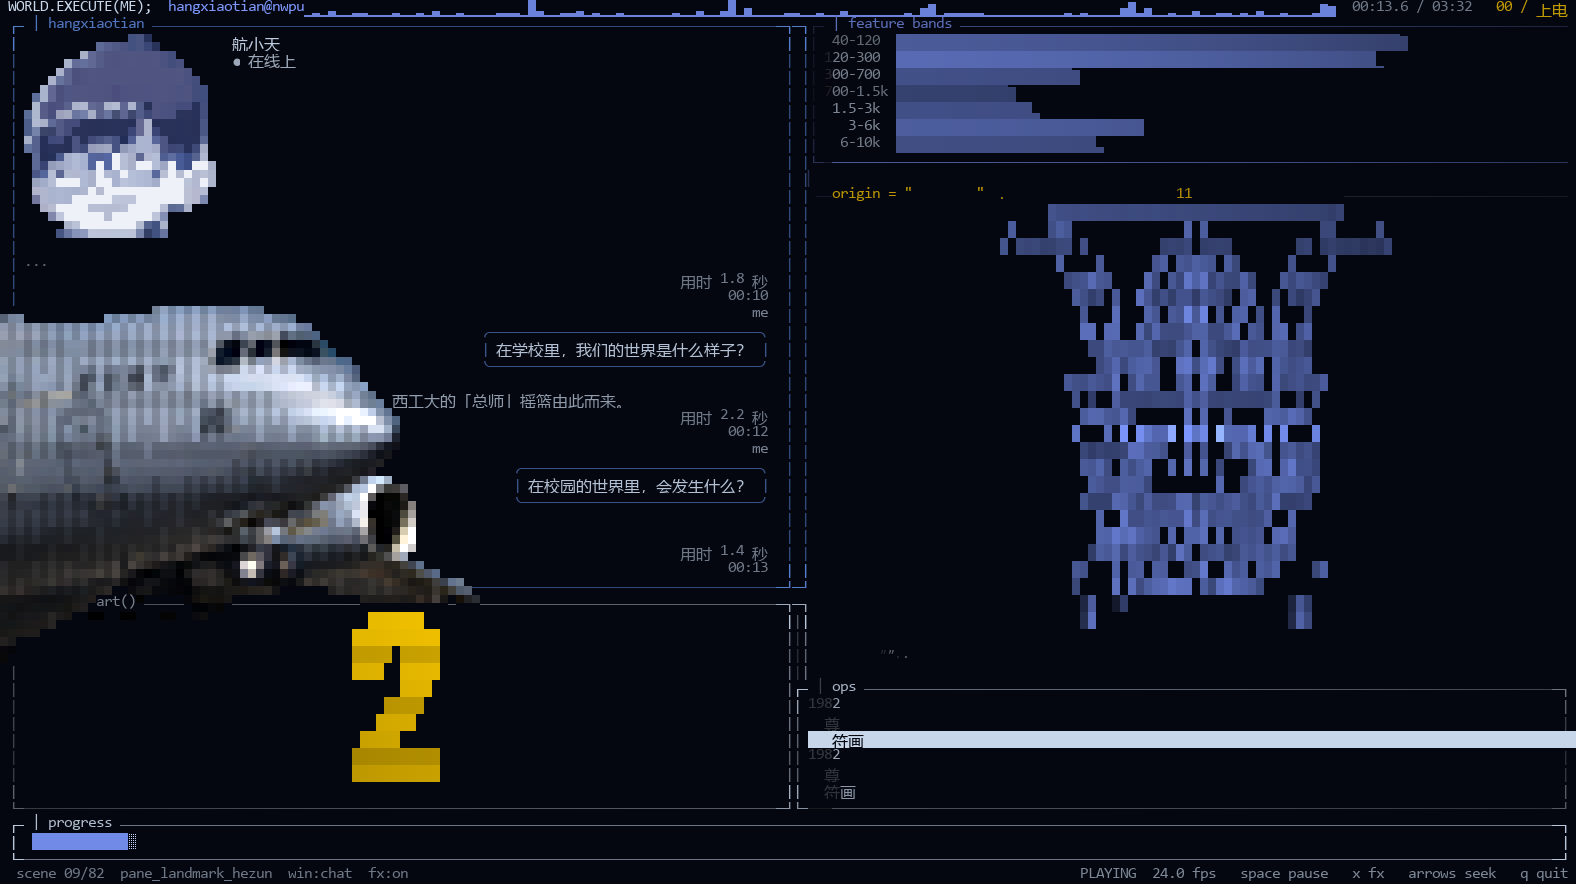
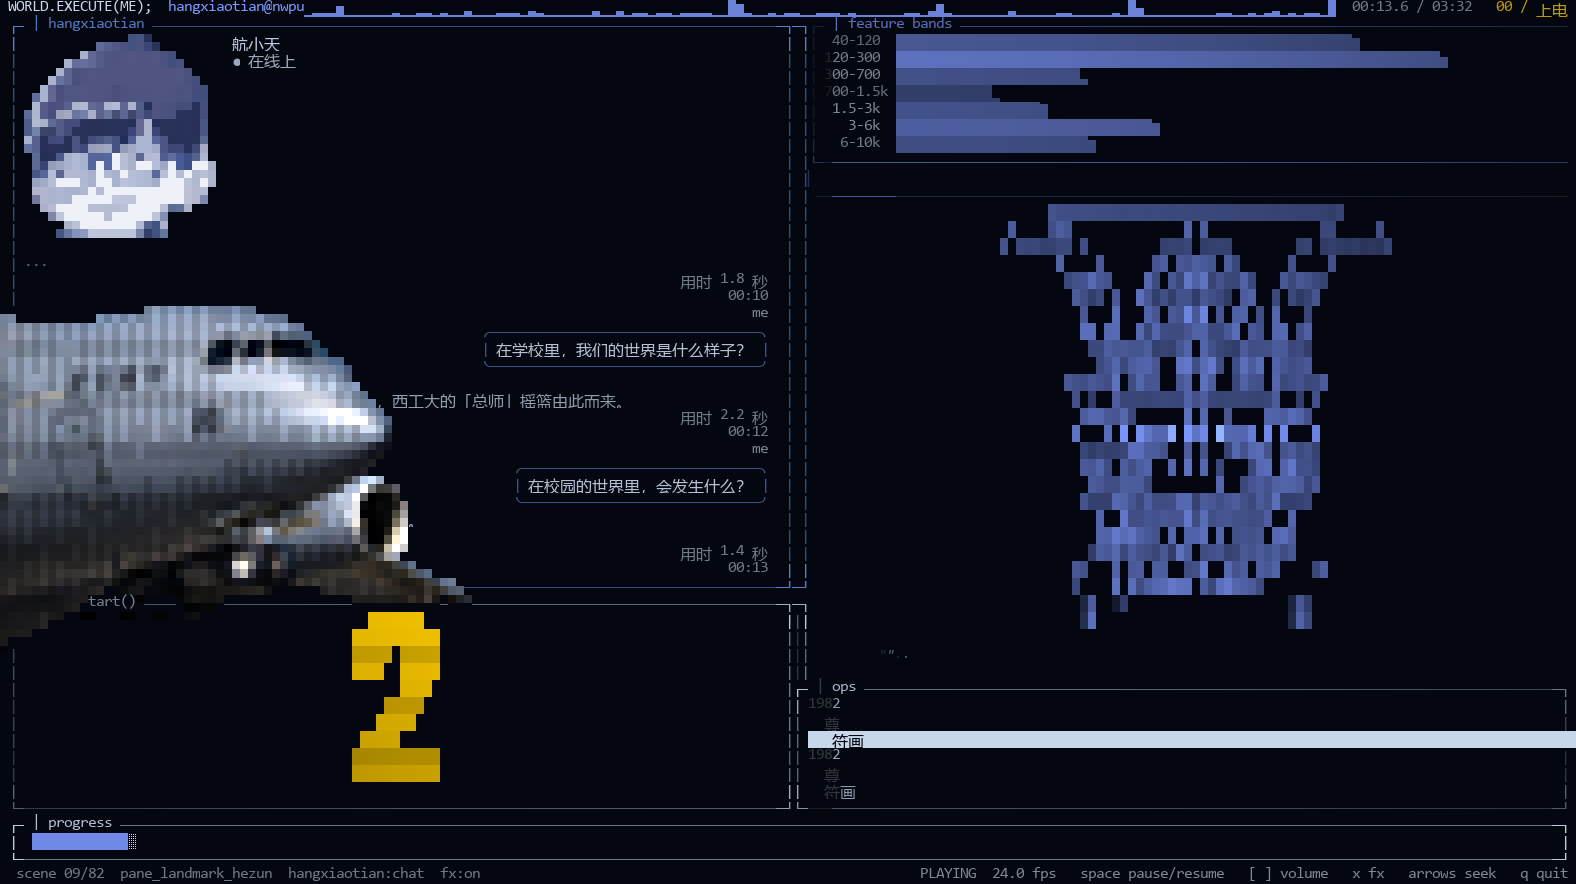
批次 73+74（与 develop 同一处改动）
三旋臂成果换成校史事实；何尊字幕让位；矩阵两行小字；
Audio.lock 合理性校验；飞机不进残影（开关放在创建条件上，不动 rows）。

diff --git a/player/_tools/school_scenes.py b/player/_tools/school_scenes.py
@@ -372,7 +372,15 @@ def pane_three_arms(s, x0, y0, x1, y1, t, lt, dur, u) -> None:
     if w < 10 or h < 5:
         return
     cx, cy = x0 + w / 2.0, y0 + h / 2.0
-    arms = [("\u822a\u7a7a", "ARJ21"), ("\u822a\u5929", "\u5317\u6597"), ("\u822a\u6d77", "\u86df\u9f99")]
+    # **The achievements are the ones this film already states**, not programmes borrowed from their
+    # real owners (batch 73, the user: "航空/天/海下方有一行白色的成果，这是你完全编造的"). It used to read
+    # `ARJ21 / 北斗 / 蛟龙`: ARJ21 is COMAC's, 北斗 is a national constellation and 蛟龙 is 702's - three
+    # real things, none of them this school's, which is exactly the kind of line that reads as a claim.
+    # These three come from the film's own 校史 line (01:26-01:30) and are the school's own firsts:
+    # 总师摇篮 for the aircraft, 翱翔之星 (12U cubesat) for space, the 30 kg underwater vehicle for the sea.
+    arms = [("\u822a\u7a7a", "\u603b\u5e08\u6447\u7bee"),
+            ("\u822a\u5929", "\u7ff1\u7fd4\u4e4b\u661f"),
+            ("\u822a\u6d77", "\u6c34\u4e0b\u65e0\u4eba\u822a\u884c\u5668")]
     grow = min(1.0, u / 0.75)
     phase = lt * 0.55
     rmax = min(w / 2.4, h * 1.15)
@@ -1186,11 +1194,6 @@ def pane_landmark_hezun(s, x0, y0, x1, y1, t, lt, dur, u) -> None:
     # instead of taking a bite out of the drawing.
     if k.bw > 46 and k.by0 >= y0 + 2:
         import school_courses as _C
-        s.put(k.bx0 + 2, y0 + 1,
-              _C._clip("origin = \"\u5b85\u5179\u4e2d\u56fd\"  \u00b7  \u4f55\u5c0a\u94ed\u6587\uff0c\u7ea6"
-                       "\u516c\u5143\u524d 11 \u4e16\u7eaa\uff08\u5468\u6210\u738b\u4e94\u5e74\uff09",
-                       max(0, k.bw - 3)),
-              _mix(_C.AMBER, 0.85))
 
 
 def _kit(s, x0: int, y0: int, x1: int, y1: int, run: int = 0, title: str = ""):

diff --git a/player/_tools/pv_audio.py b/player/_tools/pv_audio.py
@@ -67,6 +67,9 @@ class Audio:
         self.muted = False
         self._mode = "stopped"
         self._base = 0.0
+        # when the current transport state began, on the wall clock: `lock` needs it to tell a real
+        # position from the stale one MCI reports for a moment after a seek or a resume (batch 73)
+        self._t0 = time.perf_counter()
         self._alias = f"pv{os.getpid()}"
         if not enabled:
             self.error = "off"
@@ -140,6 +143,7 @@ class Audio:
         self._send(f"play {self._alias}")
         self._mode = "playing"
         self._base = t
+        self._t0 = time.perf_counter()
 
     def resume(self) -> None:
         if self.ok:
@@ -191,6 +195,15 @@ class Audio:
             return None
         target = p - self.latency
         if target < 0:
+            return None
+        # **...unless the device is lying.** Right after `play(t)` MCI can report the previous
+        # position (or 0) for a frame or two; `lock` takes a difference over 0.6 s *instantly*, so
+        # that stale reading used to snap the picture somewhere else - the user's "使用了 space、←
+        # 等按键后，音频和画面就错位了". The wall clock says where the device must be: it was started
+        # at `_base` that many seconds ago. A position that disagrees with that by more than a
+        # second is not evidence, so this frame keeps the caller's own clock.
+        expected = self._base + (time.perf_counter() - self._t0)
+        if abs(target - expected) > 1.0:
             return None
         d = target - t
         if abs(d) <= tolerance:

diff --git a/player/_tools/tui_live.py b/player/_tools/tui_live.py
@@ -709,7 +709,22 @@ def fx_trail(s: "Screen") -> None:
         else:
             g[i] = (ch, fg, lv)
     prev, buf, gp, cols, rows = s.prev, s.buf, s.ghost_prev, s.cols, s.rows
-    if prev is not None and rows:
+    # **No *new* ghosts while an aircraft is on screen** (batch 74, the user: "飞机这一层从残影里
+    # 排除（只留背景的拖尾）"): the film's post keeps 42 % of the previous frame, and a sprite that
+    # moves five cells a frame therefore leaves a copy of itself five cells back every frame - on a
+    # dark ground that reads as a dotted line, not as motion blur. The switch is on the *creation*
+    # condition and not on `rows`: `gh = bytearray(cols * rows)` at the end of this block rebuilds
+    # `ghost_prev`, so shrinking `rows` emptied the buffer and the next frame indexed out of it
+    # (`IndexError: bytearray index out of range`, caught by `ops_probe`). Ghosts already fading keep
+    # fading, so the background's own trail is untouched; `school_fx.draw` set the flag this frame.
+    planes = False
+    if SP is not None and VAR[0] == "school":
+        try:
+            import school_fx as _FXt
+            planes = bool(_FXt.AIRCRAFT_ON[0])
+        except Exception:
+            planes = False
+    if prev is not None and rows and not planes:
         for y in range(rows):
             row, prow = buf[y], prev[y]
             if row == prow:

diff --git a/player/_tools/school_fx.py b/player/_tools/school_fx.py
@@ -2256,7 +2256,20 @@ SHOCKS.extend([
 _BROKEN: set = set()
 
 
+#: **Whether an aircraft is on screen** (batch 74, the user: "飞机这一层从残影里排除（只留背景的拖尾）").
+#: The film's post keeps 42 % of the previous frame; a sprite moving five cells a frame leaves a copy of
+#: itself five cells back, every frame, and on a dark ground that reads as a dotted line rather than as
+#: motion blur. `tui_live.fx_trail` reads this and stops *creating* ghosts while it is true - ghosts
+#: already fading keep fading, so the background's own trail is untouched. The manta is not in this list:
+#: it is a sea creature crossing the frame slowly, and its trail reads as water.
+AIRCRAFT = ("y20", "arj21", "z20", "j20")
+AIRCRAFT_ON = [False]
+
+
 def draw(s, cols: int, rows: int, t: float, words=None) -> int:
+    AIRCRAFT_ON[0] = any(getattr(fn, "__name__", "") and name in AIRCRAFT
+                        for a, b, fn, kw in EVENTS if a <= t < b
+                        for name in (kw.get("name", ""),))
     """Draw every event live at `t`. Returns how many drew - the callers report it, nothing waits on it.
 
     The loop is over the whole list, which is short; an event outside its window costs a comparison. The

diff --git a/player/_tools/school_motifs.py b/player/_tools/school_motifs.py
@@ -535,10 +535,12 @@ def matrix(k, t: float) -> None:
     i = row
     terms = " + ".join(f"{a[i][j]}\u00b7{x[j]}" for j in range(n))
     k.put(k.bx0, top + n + 2, f"b{i + 1} = {terms}"[: max(1, k.bw - 1)], _mix(_C.GREEN, 0.85))
+    # **An ellipsis on the example list, and the amber line under it is gone** (batch 73, the user:
+    # "矩阵动画下方白色小字（课程）后面加省略号，黄色小字删掉"). The four names are an example - other
+    # colleges arrive as their own packs (`school_colleges`) - so the list says "and so on" rather than
+    # ending as if it were the whole curriculum; the amber line said what the drawing already shows.
     k.put(k.bx0, k.by1 - 1, "\u7ebf\u6027\u4ee3\u6570 \u00b7 \u8ba1\u7b97\u65b9\u6cd5 \u00b7 "
-                            "\u79bb\u6563\u6570\u5b66 \u00b7 \u6df1\u5ea6\u5b66\u4e60", _ui(0.6))
-    k.put(k.bx0, k.by1, "\u56db\u95e8\u8bfe\u91cc\u90fd\u662f\u540c\u4e00\u5f20\u8868\uff1a"
-                        "\u4e00\u884c\u70b9\u4e00\u5217", _mix(_C.AMBER, 0.7))
+          "\u79bb\u6563\u6570\u5b66 \u00b7 \u6df1\u5ea6\u5b66\u4e60 \u2026", _ui(0.6))
 
 
 def epicycles(k, t: float) -> None:

diff --git a/README.md b/README.md
@@ -54,7 +54,6 @@ run.cmd --start 147      :: 从 02:27 开始；任何播放器参数都能透传
 ```
 
 两个启动器就在**仓库根目录**（执行接口），它们自己会 `cd` 到 `player\`。
-`player\` 里那个中文名的启动器是给"自带 Python 的完整压缩包"用的（`player\python\python.exe`）。
 
 **4. 按键**：播放中随时可用的是 `q` 退出 · `空格` 暂停/继续 · `[` `]` 音量 · `x` 开关后期特效 ·
 方向键 / `Home` 跳转（跳到分岔口之后按默认答案继续，不会卡在一道没人看见的题上）；
